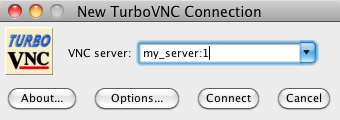
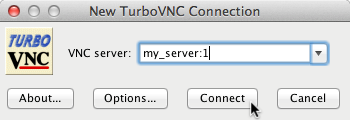
Remove vestigial instructions from Windows TurboVNC Viewer connection dialog regarding "connection profile" (that was a throwback to the TightVNC days), and re-order the buttons to more closely match the new Java viewer; "listening mode" = "listen mode" to be consistent with the X11 and Java viewer;
git-svn-id: svn://svn.code.sf.net/p/turbovnc/code/branches/1.2.x@2487 799e4f7b-5fd2-41f6-823c-2ecc41bc7f0b

diff --git a/doc/index.html b/doc/index.html
@@ -3,7 +3,7 @@
 <head>
 <meta http-equiv="content-type" content="text/html; charset=ISO-8859-1">
 <meta name="language" content="en">
-<meta name="date" content="2013-03-25T08:12:31">
+<meta name="date" content="2013-05-15T00:45:07">
 <meta name="generator" content="deplate.rb 0.8.5">
 <title>User&rsquo;s Guide for TurboVNC 1.2</title>
 <link rel="start" href="index.html" title="Frontpage">
@@ -468,7 +468,7 @@ could&nbsp;not&nbsp;open&nbsp;default&nbsp;font&nbsp;'fixed'
 <h3 id="hd005001002">Installing TurboVNC</h3>
 
 <ol class="Ordered numeric">
-    <li class="Ordered-1 Ordered" value="1">
+    <li value="1" class="Ordered-1 Ordered">
         Download the appropriate TurboVNC binary package for your system from 
         the 
         <span class="remote"><a class="remote" href="http://sourceforge.net/projects/virtualgl/files/TurboVNC/">Files 
@@ -490,7 +490,7 @@ could&nbsp;not&nbsp;open&nbsp;default&nbsp;font&nbsp;'fixed'
         <span class="remote"><a class="remote" href="http://www.ubuntu.com/">Ubuntu 
         Linux</a></span><a name="idx0016"></a> v6.0 or later.) <br />
     </li>
-    <li class="Ordered-1 Ordered" value="2">
+    <li value="2" class="Ordered-1 Ordered">
         Log in as root, cd to the directory where you downloaded the binary 
         package, and issue one of the following commands:
         <dl class="Description">

diff --git a/java/com/turbovnc/network/TcpListener.java b/java/com/turbovnc/network/TcpListener.java
@@ -80,7 +80,7 @@ public class TcpListener extends SocketListener  {
       selector = Selector.open();
       channel.register(selector, SelectionKey.OP_ACCEPT);
     } catch(IOException e) {
-      throw new ErrorException("Could not enable listening mode for socket: " +
+      throw new ErrorException("Could not enable listen mode for socket: " +
                                e.getMessage());
     }
   }

diff --git a/win/vncviewer/VNCviewerApp32.cpp b/win/vncviewer/VNCviewerApp32.cpp
@@ -43,7 +43,7 @@ VNCviewerApp32::VNCviewerApp32(HINSTANCE hInstance, PSTR szCmdLine) :
 
   // Start listening daemons, if requested
   if (m_options.m_listening && FindWindow("VNCviewer Daemon", 0) == NULL) {
-    vnclog.Print(3, "In listening mode - starting daemons\n");
+    vnclog.Print(3, "In listen mode - starting daemons\n");
     ListenMode();
   } else
     m_options.m_listening = false;

diff --git a/win/vncviewer/VNCviewerApp.h b/win/vncviewer/VNCviewerApp.h
@@ -51,7 +51,7 @@ class VNCviewerApp
 
     // This should be used by Connections to register and deregister
     // themselves.  When the last connection is deregistered, the app
-    // will close unless in listening mode.
+    // will close unless in listen mode.
     void RegisterConnection(ClientConnection *pConn);
     void DeregisterConnection(ClientConnection *pConn);
 

diff --git a/win/vncviewer/VNCviewerApp.cpp b/win/vncviewer/VNCviewerApp.cpp
@@ -96,7 +96,7 @@ void VNCviewerApp::DeregisterConnection(ClientConnection *pConn)
       vnclog.Print(4, "Deregistered connection from app\n");
 
       // No clients left?  Then we should finish, unless we're in
-      // listening mode
+      // listen mode
       if ((m_clilist[0] == NULL) && (!pApp->m_options.m_listening)){
         PostQuitMessage(0);}
 

diff --git a/win/vncviewer/res/resource.h b/win/vncviewer/res/resource.h
@@ -119,7 +119,6 @@
 #define IDC_FTBROWSEEDIT                1092
 #define IDC_LOAD                        1093
 #define IDC_SERVERRELOAD                1094
-#define IDC_CONN_PROF                   1095
 #define IDC_STATIC_TEXT_LEVEL           1096
 #define IDC_STATIC_FAST                 1097
 #define IDC_STATIC_BEST                 1098
